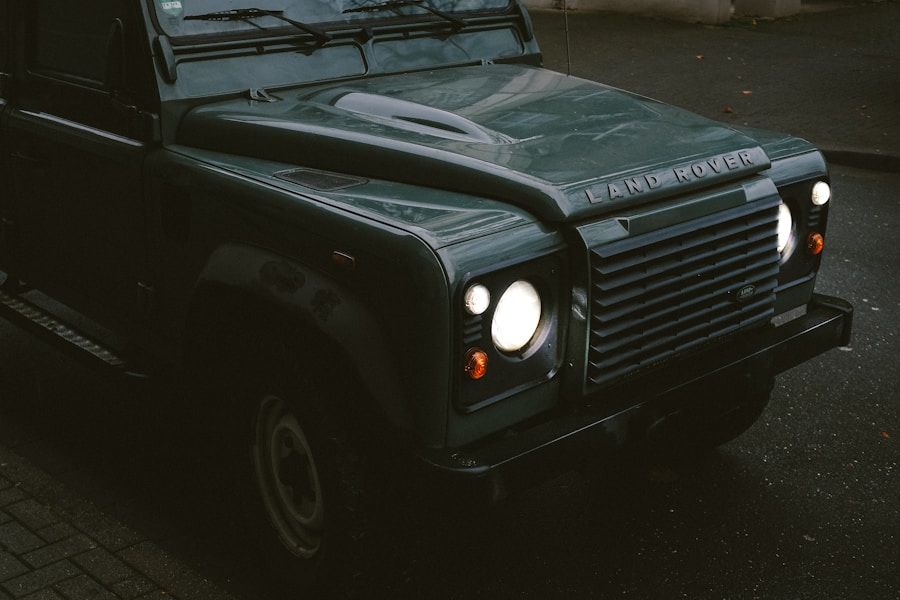
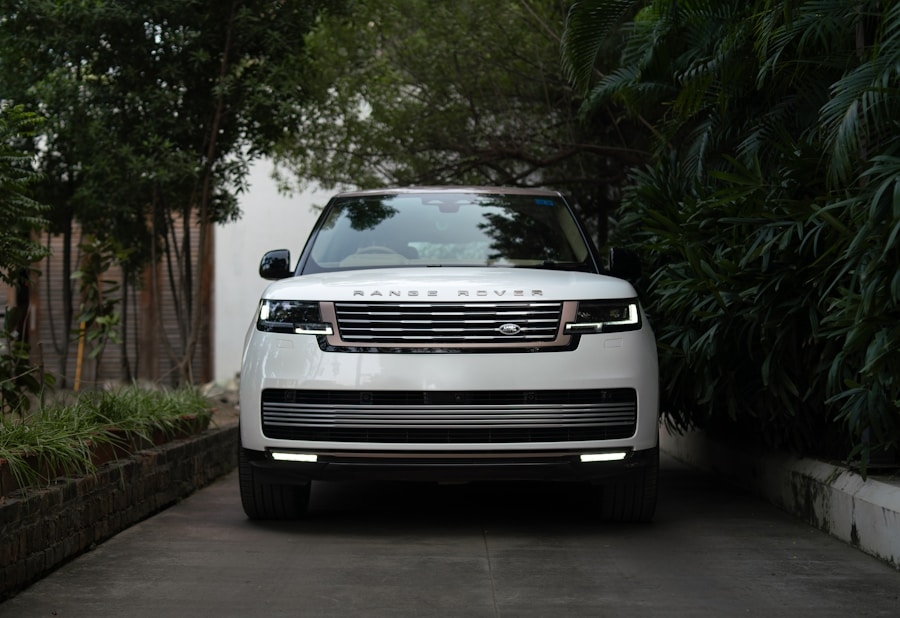
Fix guide hub cards, nav hover states, car images, and add editorial intro sections
- Fix invisible hub card text: white CSS override → dark var(--text-2/3) colors
- Fix guide-tab and gnl hover across 82 pages: dark-on-dark → white on #111 nav
- Replace Lamborghini pick card dark overlay with real lamborghini-aventador.jpg
- Replace Anti-Pick card dark overlay with real leased-amg-take.jpg
- Add Cars editorial intro section: outfit-board with 2x2 Porsche/BMW/Lexus/AMG collage
- Add Golf editorial intro section: outfit-board with Titleist/Bushnell/Vessel/Callaway collage
- Add Other editorial intro section: outfit-board with Anker/Beardbrand/Nomatic/YETI collage
- Commit updated car images: Range Rover (white L-series), Cadillac CT5-V (modern black)

diff --git a/guide/other/index.html b/guide/other/index.html
@@ -36,14 +36,14 @@
   .guide-word-guide{color:var(--accent);font-weight:800;}
   .guide-nav-links{display:flex;align-items:center;gap:4px;}
   .gnl{font-size:15px;font-weight:600;color:var(--text-2);text-decoration:none;padding:7px 12px;border-radius:8px;transition:color .15s,background .15s;}
-  .gnl:hover{color:var(--text);background:rgba(0,0,0,.04);text-decoration:none;}
+  .gnl:hover{color:#fff;background:rgba(255,255,255,.1);text-decoration:none;}
   .gnl-cta{background:var(--accent);color:#fff;padding:8px 18px;border-radius:9px;font-size:14px;font-weight:700;transition:background .15s,transform .15s;margin-left:8px;}
   .gnl-cta:hover{background:var(--accent-h);text-decoration:none;transform:translateY(-1px);}
   .guide-tabs{position:sticky;top:62px;z-index:90;background:#111;backdrop-filter:blur(12px);-webkit-backdrop-filter:blur(12px);border-bottom:1px solid rgba(255,255,255,0.08);}
   .guide-tabs-inner{max-width:1120px;margin:0 auto;padding:0 24px;display:flex;gap:0;overflow-x:auto;-webkit-overflow-scrolling:touch;scrollbar-width:none;}
   .guide-tabs-inner::-webkit-scrollbar{display:none;}
   .guide-tab{padding:13px 20px;font-family:'Inter Tight',sans-serif;font-weight:700;font-size:14px;letter-spacing:.01em;color:var(--text-2);text-decoration:none;border-bottom:2px solid transparent;margin-bottom:-1px;transition:color .15s ease,border-color .15s ease;white-space:nowrap;}
-  .guide-tab:hover{color:var(--text);text-decoration:none;}
+  .guide-tab:hover{color:#fff;text-decoration:none;}
   .guide-tab.active{color:var(--accent);border-bottom-color:var(--accent);}
   .cat-band{background:#0F1724;color:#fff;padding:48px 24px 44px;border-top:3px solid var(--accent);}
   .cat-band-inner{max-width:1120px;margin:0 auto;}
@@ -88,6 +88,32 @@
   .guide-footer-links a{color:rgba(255,255,255,.5);}
   .guide-footer-links a:hover{color:#fff;text-decoration:none;}
   .guide-footer-note{width:100%;font-size:11px;color:rgba(255,255,255,.28);line-height:1.6;padding-top:16px;border-top:1px solid rgba(255,255,255,.08);margin-top:16px;}
+  /* ── SECTION HEADERS ── */
+  .guide-section{padding:56px 0;}
+  .gsec-eyebrow{font-size:11px;font-weight:700;letter-spacing:.12em;text-transform:uppercase;color:var(--accent);margin-bottom:8px;}
+  .gsec-title{font-family:'Inter Tight',sans-serif;font-weight:800;font-size:clamp(22px,3.5vw,32px);letter-spacing:-.02em;margin-bottom:8px;color:var(--text);}
+  .gsec-sub{font-size:15px;color:var(--text-2);margin-bottom:36px;max-width:560px;line-height:1.6;}
+  /* ── OUTFIT BOARD ── */
+  .outfit-board{display:grid;grid-template-columns:320px 1fr;gap:0;background:var(--surface);border:1px solid var(--border);border-radius:16px;overflow:hidden;}
+  .outfit-img{background:var(--surface-2);min-height:380px;display:flex;align-items:center;justify-content:center;}
+  .outfit-img img{width:100%;height:380px;object-fit:cover;display:block;}
+  .outfit-collage{padding:0!important;overflow:hidden;}
+  .outfit-collage-grid{display:grid;grid-template-columns:1fr 1fr;grid-template-rows:1fr 1fr;gap:2px;height:100%;min-height:340px;}
+  .outfit-collage-grid img{width:100%;height:100%;object-fit:cover;display:block;background:var(--surface-2);}
+  .outfit-content{padding:32px 36px;display:flex;flex-direction:column;gap:0;}
+  .outfit-eyebrow{font-family:'Inter Tight',sans-serif;font-size:10px;font-weight:700;letter-spacing:.12em;text-transform:uppercase;color:var(--accent);margin-bottom:10px;}
+  .outfit-title{font-family:'Inter Tight',sans-serif;font-weight:900;font-size:22px;letter-spacing:-0.02em;color:var(--text);margin-bottom:4px;}
+  .outfit-subtitle{font-size:14px;color:var(--text-2);margin-bottom:16px;}
+  .outfit-writeup{font-size:15px;color:var(--text-2);line-height:1.68;margin-bottom:24px;}
+  .outfit-items{list-style:none;padding:0;margin:0 0 18px;border-top:1px solid var(--border);}
+  .outfit-item{display:flex;align-items:center;justify-content:space-between;padding:10px 0;border-bottom:1px solid rgba(0,0,0,.06);}
+  .outfit-item-info{flex:1;min-width:0;}
+  .outfit-item-name{font-weight:600;font-size:14px;color:var(--text);white-space:nowrap;overflow:hidden;text-overflow:ellipsis;}
+  .outfit-item-role{font-size:12px;color:var(--text-3);}
+  .outfit-item-shop{flex-shrink:0;margin-left:14px;font-size:12px;font-weight:600;color:var(--accent);white-space:nowrap;text-decoration:none;}
+  .outfit-item-shop:hover{text-decoration:underline;}
+  .outfit-flashy{font-family:'Inter Tight',sans-serif;font-size:14px;font-weight:700;color:var(--text);border-left:3px solid var(--accent);padding-left:12px;line-height:1.5;}
+  @media(max-width:700px){.outfit-board{grid-template-columns:1fr;}}
 </style>
 </head>
 <body>
@@ -121,6 +147,52 @@
     <div class="cat-band-crumb"><a href="/guide/">Guide</a><span class="cat-band-crumb-sep">›</span>Other</div>
     <h1 class="cat-band-title">Other</h1>
     <p class="cat-band-desc">Tech, grooming, travel, home. Everything that doesn't fit a category but still belongs in the arsenal of a guy who pays attention.</p>
+  </div>
+</div>
+
+<div class="guide-section" style="padding:48px 0 40px;">
+  <div class="gc">
+    <div class="gsec-eyebrow">The Essentials</div>
+    <div class="gsec-title">The Four Upgrades Every Guy Should Have</div>
+    <div class="gsec-sub">The stuff that quietly separates a guy who has his act together from one who doesn't.</div>
+    <div class="outfit-board">
+      <div class="outfit-img outfit-collage"><div class="outfit-collage-grid">
+        <img src="/assets/guide/other/anker-3in1-charger.jpg" alt="Anker 3-in-1 charger" loading="lazy">
+        <img src="/assets/guide/other/beardbrand-utility-bar.jpg" alt="Beardbrand grooming" loading="lazy">
+        <img src="/assets/guide/other/nomatic-40l-pack.jpg" alt="Nomatic backpack" loading="lazy">
+        <img src="/assets/guide/other/yeti-rambler-20oz.jpg" alt="YETI Rambler" loading="lazy">
+      </div></div>
+      <div class="outfit-content">
+        <div class="outfit-eyebrow">The Essentials</div>
+        <div class="outfit-title">The Four Upgrades Every Guy Should Have</div>
+        <div class="outfit-subtitle">The stuff that works so well you stop thinking about it.</div>
+        <p class="outfit-writeup">Some gear is invisible when done right and embarrassing when skipped. A three-in-one charging dock ends the cable pile on your nightstand and signals that you've thought about your space. A quality grooming bar — bar soap is back, and the cheap stuff is obvious. One great backpack you'd take to the airport and a client meeting without changing your bag. A YETI tumbler you'll still be using in ten years. None of this is flashy. All of it is the kind of detail that people who notice things will notice — and people who don't notice things won't subtract from you for.</p>
+        <ul class="outfit-items">
+          <li class="outfit-item">
+            <div class="outfit-item-info">
+              <div class="outfit-item-name">Anker 3-in-1 MagSafe Charging Dock</div>
+              <div class="outfit-item-role">Clean desk, all devices powered — done</div>
+            </div>
+            <a href="/guide/other/anker-3in1-charger/" class="outfit-item-shop">Our Take →</a>
+          </li>
+          <li class="outfit-item">
+            <div class="outfit-item-info">
+              <div class="outfit-item-name">Beardbrand Utility Bar</div>
+              <div class="outfit-item-role">The grooming upgrade that changes nothing and everything</div>
+            </div>
+            <a href="/guide/other/beardbrand-utility-bar/" class="outfit-item-shop">Our Take →</a>
+          </li>
+          <li class="outfit-item">
+            <div class="outfit-item-info">
+              <div class="outfit-item-name">Nomatic 40L Travel Pack</div>
+              <div class="outfit-item-role">One bag that goes everywhere without apology</div>
+            </div>
+            <a href="/guide/other/nomatic-40l-pack/" class="outfit-item-shop">Our Take →</a>
+          </li>
+        </ul>
+        <p class="outfit-flashy">The guys who have their act together don't have more stuff — they have fewer, better things they've stopped thinking about.</p>
+      </div>
+    </div>
   </div>
 </div>
 

diff --git a/guide/golf/index.html b/guide/golf/index.html
@@ -36,14 +36,14 @@
   .guide-word-guide{color:var(--accent);font-weight:800;}
   .guide-nav-links{display:flex;align-items:center;gap:4px;}
   .gnl{font-size:15px;font-weight:600;color:var(--text-2);text-decoration:none;padding:7px 12px;border-radius:8px;transition:color .15s,background .15s;}
-  .gnl:hover{color:var(--text);background:rgba(0,0,0,.04);text-decoration:none;}
+  .gnl:hover{color:#fff;background:rgba(255,255,255,.1);text-decoration:none;}
   .gnl-cta{background:var(--accent);color:#fff;padding:8px 18px;border-radius:9px;font-size:14px;font-weight:700;transition:background .15s,transform .15s;margin-left:8px;}
   .gnl-cta:hover{background:var(--accent-h);text-decoration:none;transform:translateY(-1px);}
   .guide-tabs{position:sticky;top:62px;z-index:90;background:#111;backdrop-filter:blur(12px);-webkit-backdrop-filter:blur(12px);border-bottom:1px solid rgba(255,255,255,0.08);}
   .guide-tabs-inner{max-width:1120px;margin:0 auto;padding:0 24px;display:flex;gap:0;overflow-x:auto;-webkit-overflow-scrolling:touch;scrollbar-width:none;}
   .guide-tabs-inner::-webkit-scrollbar{display:none;}
   .guide-tab{padding:13px 20px;font-family:'Inter Tight',sans-serif;font-weight:700;font-size:14px;letter-spacing:.01em;color:var(--text-2);text-decoration:none;border-bottom:2px solid transparent;margin-bottom:-1px;transition:color .15s ease,border-color .15s ease;white-space:nowrap;}
-  .guide-tab:hover{color:var(--text);text-decoration:none;}
+  .guide-tab:hover{color:#fff;text-decoration:none;}
   .guide-tab.active{color:var(--accent);border-bottom-color:var(--accent);}
   .cat-band{background:#0F1724;color:#fff;padding:48px 24px 44px;border-top:3px solid var(--accent);}
   .cat-band-inner{max-width:1120px;margin:0 auto;}
@@ -54,6 +54,10 @@
   .cat-band-title{font-family:'Inter Tight',sans-serif;font-weight:900;font-size:clamp(32px,5vw,52px);letter-spacing:-.03em;line-height:1.0;margin-bottom:12px;}
   .cat-band-desc{font-size:16px;color:rgba(255,255,255,.62);max-width:520px;line-height:1.6;}
   .gc{max-width:1120px;margin:0 auto;padding:0 24px;}
+  .guide-section{padding:56px 0;}
+  .gsec-eyebrow{font-size:11px;font-weight:700;letter-spacing:.12em;text-transform:uppercase;color:var(--accent);margin-bottom:8px;}
+  .gsec-title{font-family:'Inter Tight',sans-serif;font-weight:800;font-size:clamp(22px,3.5vw,32px);letter-spacing:-.02em;margin-bottom:8px;color:var(--text);}
+  .gsec-sub{font-size:15px;color:var(--text-2);margin-bottom:36px;max-width:560px;line-height:1.6;}
   .section-eyebrow{font-size:11px;font-weight:700;letter-spacing:.12em;text-transform:uppercase;color:var(--accent);margin-bottom:8px;}
   .section-title{font-family:'Inter Tight',sans-serif;font-weight:800;font-size:clamp(22px,3.5vw,32px);letter-spacing:-.02em;margin-bottom:8px;color:var(--text);}
   .section-desc{font-size:15px;color:var(--text-2);margin-bottom:36px;max-width:560px;line-height:1.6;}
@@ -113,6 +117,27 @@
   .guide-footer-links a{color:rgba(255,255,255,.5);}
   .guide-footer-links a:hover{color:#fff;text-decoration:none;}
   .guide-footer-note{width:100%;font-size:11px;color:rgba(255,255,255,.28);line-height:1.6;padding-top:16px;border-top:1px solid rgba(255,255,255,.08);margin-top:16px;}
+  /* ── OUTFIT BOARD ── */
+  .outfit-board{display:grid;grid-template-columns:320px 1fr;gap:0;background:var(--surface);border:1px solid var(--border);border-radius:16px;overflow:hidden;}
+  .outfit-img{background:var(--surface-2);min-height:380px;display:flex;align-items:center;justify-content:center;}
+  .outfit-img img{width:100%;height:380px;object-fit:cover;display:block;}
+  .outfit-collage{padding:0!important;overflow:hidden;}
+  .outfit-collage-grid{display:grid;grid-template-columns:1fr 1fr;grid-template-rows:1fr 1fr;gap:2px;height:100%;min-height:340px;}
+  .outfit-collage-grid img{width:100%;height:100%;object-fit:cover;display:block;background:var(--surface-2);}
+  .outfit-content{padding:32px 36px;display:flex;flex-direction:column;gap:0;}
+  .outfit-eyebrow{font-family:'Inter Tight',sans-serif;font-size:10px;font-weight:700;letter-spacing:.12em;text-transform:uppercase;color:var(--accent);margin-bottom:10px;}
+  .outfit-title{font-family:'Inter Tight',sans-serif;font-weight:900;font-size:22px;letter-spacing:-0.02em;color:var(--text);margin-bottom:4px;}
+  .outfit-subtitle{font-size:14px;color:var(--text-2);margin-bottom:16px;}
+  .outfit-writeup{font-size:15px;color:var(--text-2);line-height:1.68;margin-bottom:24px;}
+  .outfit-items{list-style:none;padding:0;margin:0 0 18px;border-top:1px solid var(--border);}
+  .outfit-item{display:flex;align-items:center;justify-content:space-between;padding:10px 0;border-bottom:1px solid rgba(0,0,0,.06);}
+  .outfit-item-info{flex:1;min-width:0;}
+  .outfit-item-name{font-weight:600;font-size:14px;color:var(--text);white-space:nowrap;overflow:hidden;text-overflow:ellipsis;}
+  .outfit-item-role{font-size:12px;color:var(--text-3);}
+  .outfit-item-shop{flex-shrink:0;margin-left:14px;font-size:12px;font-weight:600;color:var(--accent);white-space:nowrap;text-decoration:none;}
+  .outfit-item-shop:hover{text-decoration:underline;}
+  .outfit-flashy{font-family:'Inter Tight',sans-serif;font-size:14px;font-weight:700;color:var(--text);border-left:3px solid var(--accent);padding-left:12px;line-height:1.5;}
+  @media(max-width:700px){.outfit-board{grid-template-columns:1fr;}}
 </style>
 </head>
 <body>
@@ -146,6 +171,52 @@
     <div class="cat-band-crumb"><a href="/guide/">Guide</a><span class="cat-band-crumb-sep">›</span>Golf</div>
     <h1 class="cat-band-title">Golf</h1>
     <p class="cat-band-desc">The equipment that makes you look like you've been doing this your whole life — and the apps that back up the bluster.</p>
+  </div>
+</div>
+
+<div class="guide-section" style="padding:48px 0 40px;">
+  <div class="gc">
+    <div class="gsec-eyebrow">The Starter Kit</div>
+    <div class="gsec-title">The Four Things That Actually Matter</div>
+    <div class="gsec-sub">Show up with these and you look like you know what you're doing.</div>
+    <div class="outfit-board">
+      <div class="outfit-img outfit-collage"><div class="outfit-collage-grid">
+        <img src="/assets/guide/golf/titleist-pro-v1.jpg" alt="Titleist Pro V1" loading="lazy">
+        <img src="/assets/guide/golf/bushnell-pro-x3.jpg" alt="Bushnell rangefinder" loading="lazy">
+        <img src="/assets/guide/golf/vessel-player-iv.jpg" alt="Vessel stand bag" loading="lazy">
+        <img src="/assets/guide/golf/callaway-paradym-driver.jpg" alt="Callaway driver" loading="lazy">
+      </div></div>
+      <div class="outfit-content">
+        <div class="outfit-eyebrow">The Starter Kit</div>
+        <div class="outfit-title">The Four Things That Actually Matter</div>
+        <div class="outfit-subtitle">Ball. Rangefinder. Bag. Driver. Everything else is noise until you have these.</div>
+        <p class="outfit-writeup">Golf has a gear problem — every brand convinces you that you need the latest driver, five wedges, and a $600 bag before you can show up. You don't. What separates a guy who looks like he plays from a guy who clearly doesn't is simpler: a quality ball that matches your swing speed, a rangefinder so you stop guessing yardages, a clean stand bag that isn't falling apart, and one driver you've actually hit more than twice. The Pro V1 is the standard because it is the standard. The Bushnell Pro X3 gives you yardages in two seconds and never embarrasses you on the course. Vessel bags look like they belong at a member's club. Get these right first — then obsess over irons.</p>
+        <ul class="outfit-items">
+          <li class="outfit-item">
+            <div class="outfit-item-info">
+              <div class="outfit-item-name">Titleist Pro V1</div>
+              <div class="outfit-item-role">The ball everyone plays for a reason</div>
+            </div>
+            <a href="/guide/golf/titleist-pro-v1/" class="outfit-item-shop">Our Take →</a>
+          </li>
+          <li class="outfit-item">
+            <div class="outfit-item-info">
+              <div class="outfit-item-name">Bushnell Pro X3 Rangefinder</div>
+              <div class="outfit-item-role">Accurate yardages, zero excuses</div>
+            </div>
+            <a href="/guide/golf/bushnell-pro-x3/" class="outfit-item-shop">Our Take →</a>
+          </li>
+          <li class="outfit-item">
+            <div class="outfit-item-info">
+              <div class="outfit-item-name">Vessel Player IV Stand Bag</div>
+              <div class="outfit-item-role">The bag that looks like you belong there</div>
+            </div>
+            <a href="/guide/golf/vessel-player-iv/" class="outfit-item-shop">Our Take →</a>
+          </li>
+        </ul>
+        <p class="outfit-flashy">The tell on the course isn't your handicap — it's whether your setup looks intentional. Get the basics right and everything else is details.</p>
+      </div>
+    </div>
   </div>
 </div>
 

diff --git a/guide/cars/index.html b/guide/cars/index.html
@@ -273,7 +273,7 @@
   .guide-tabs{position:sticky;top:57px;z-index:90;background:#111;backdrop-filter:blur(12px);-webkit-backdrop-filter:blur(12px);border-bottom:1px solid rgba(255,255,255,0.08);}
   .guide-tabs-inner{max-width:1120px;margin:0 auto;padding:0 24px;display:flex;gap:0;overflow-x:auto;-webkit-overflow-scrolling:touch;}
   .guide-tab{padding:13px 20px;font-family:'Inter Tight',sans-serif;font-weight:700;font-size:14px;letter-spacing:.01em;color:var(--text-2);text-decoration:none;border-bottom:2px solid transparent;margin-bottom:-1px;transition:color .15s ease,border-color .15s ease;white-space:nowrap;}
-  .guide-tab:hover{color:var(--text);text-decoration:none;}
+  .guide-tab:hover{color:#fff;text-decoration:none;}
   .guide-tab.active{color:var(--accent);border-bottom-color:var(--accent);}
   }
   .outfit-collage { padding: 0 !important; overflow: hidden; }
@@ -322,6 +322,52 @@
   </div>
 </div>
 
+
+<div class="guide-section">
+  <div class="gc">
+    <div class="gsec-eyebrow">The Take</div>
+    <div class="gsec-title">What Your Car Actually Signals</div>
+    <div class="gsec-sub">The read every guy should know before he buys.</div>
+    <div class="outfit-board">
+      <div class="outfit-img outfit-collage"><div class="outfit-collage-grid">
+        <img src="/assets/guide/cars/used-porsche-911.jpg" alt="Porsche 911" loading="lazy">
+        <img src="/assets/guide/cars/bmw-x5.jpg" alt="BMW X5" loading="lazy">
+        <img src="/assets/guide/cars/lexus-stealth-luxury.jpg" alt="Lexus LS" loading="lazy">
+        <img src="/assets/guide/cars/mercedes-amg-c43.jpg" alt="Mercedes-AMG" loading="lazy">
+      </div></div>
+      <div class="outfit-content">
+        <div class="outfit-eyebrow">The Take</div>
+        <div class="outfit-title">What Your Car Actually Signals</div>
+        <div class="outfit-subtitle">Cars broadcast louder than you think — make sure it's saying what you want.</div>
+        <p class="outfit-writeup">A car is one of the loudest signals you send before you say a word. A clean Porsche 911 — especially a used one you bought outright — says you know what you're doing. A Lexus LS says old money and zero need to be noticed. A BMW X5 is the baseline of suburban-professional; fine, but invisible. An AMG with a modified exhaust and a lease says something else entirely. The guys who understand cars see through the noise instantly. The move is to buy something that rewards knowledge — not something designed to impress people who don't know the difference.</p>
+        <ul class="outfit-items">
+          <li class="outfit-item">
+            <div class="outfit-item-info">
+              <div class="outfit-item-name">Porsche 911</div>
+              <div class="outfit-item-role">The car that signals you actually know cars</div>
+            </div>
+            <a href="/guide/cars/used-porsche-911/" class="outfit-item-shop">Our Take →</a>
+          </li>
+          <li class="outfit-item">
+            <div class="outfit-item-info">
+              <div class="outfit-item-name">Lexus LS / LC</div>
+              <div class="outfit-item-role">Stealth luxury — underrated by design</div>
+            </div>
+            <a href="/guide/cars/lexus-stealth-luxury/" class="outfit-item-shop">Our Take →</a>
+          </li>
+          <li class="outfit-item">
+            <div class="outfit-item-info">
+              <div class="outfit-item-name">BMW X5 / X7</div>
+              <div class="outfit-item-role">The professional default — works, but predictable</div>
+            </div>
+            <a href="/guide/cars/bmw-x5-x7/" class="outfit-item-shop">Our Take →</a>
+          </li>
+        </ul>
+        <p class="outfit-flashy">The flex in cars is buying something that rewards knowledge — a car enthusiasts respect over a car designed to impress people who can't tell the difference.</p>
+      </div>
+    </div>
+  </div>
+</div>
 
 <div class="guide-section">
   <div class="gc">
@@ -500,7 +546,8 @@
 
 <div class="pick-card">
   <div class="pick-card-img">
-    <div class="pick-card-img-gt"><div class="pci-gt-inner"><div class="pci-gt-eyebrow">GuyTalk Guide</div><div class="pci-gt-brand">Lamborghini</div><div class="pci-gt-name">The Loud Exotic</div></div></div>
+    <img src="/assets/guide/cars/lamborghini-aventador.jpg" alt="Lamborghini Aventador" loading="lazy"
+         onerror="this.onerror=null;this.parentElement.innerHTML='<div class=\'pick-card-img-gt\'><div class=\'pci-gt-inner\'><div class=\'pci-gt-eyebrow\'>GuyTalk Guide</div><div class=\'pci-gt-brand\'>Lamborghini</div><div class=\'pci-gt-name\'>The Loud Exotic</div></div></div>'">
   </div>
   <div class="pick-card-body">
     <div class="pick-card-tag"><span class="gtag gtag-amber">Know What It Says</span></div>
@@ -514,7 +561,8 @@
 
 <div class="pick-card">
   <div class="pick-card-img">
-    <div class="pick-card-img-gt"><div class="pci-gt-inner"><div class="pci-gt-eyebrow">GuyTalk Guide</div><div class="pci-gt-brand">The Anti-Pick</div><div class="pci-gt-name">Skip the Lease Energy</div></div></div>
+    <img src="/assets/guide/cars/leased-amg-take.jpg" alt="Leased luxury car" loading="lazy" style="object-position: center center;"
+         onerror="this.onerror=null;this.parentElement.innerHTML='<div class=\'pick-card-img-gt\'><div class=\'pci-gt-inner\'><div class=\'pci-gt-eyebrow\'>GuyTalk Guide</div><div class=\'pci-gt-brand\'>The Anti-Pick</div><div class=\'pci-gt-name\'>Skip the Lease Energy</div></div></div>'">
   </div>
   <div class="pick-card-body">
     <div class="pick-card-tag"><span class="gtag gtag-gray">The Anti-Pick</span></div>

diff --git a/guide/index.html b/guide/index.html
@@ -65,8 +65,8 @@
   .guide-word-guide { color: var(--accent); font-weight: 800; }
   .guide-nav-links { display: flex; align-items: center; gap: 4px; }
   .gnl { font-size: 15px; font-weight: 600; color: var(--text-2); text-decoration: none; padding: 7px 12px; border-radius: 8px; transition: color 0.15s, background 0.15s; }
-  .gnl:hover { color: var(--text); background: rgba(0,0,0,0.04); text-decoration: none; }
-  .gnl.is-active { color: var(--text); }
+  .gnl:hover { color: #fff; background: rgba(255,255,255,0.1); text-decoration: none; }
+  .gnl.is-active { color: #fff; }
   .gnl-cta {
     font-size: 14px; font-weight: 700; padding: 8px 18px;
     background: var(--accent); color: #fff; border-radius: 9px; text-decoration: none;
@@ -426,7 +426,7 @@
   .guide-tabs-inner{max-width:1120px;margin:0 auto;padding:0 24px;display:flex;gap:0;overflow-x:auto;-webkit-overflow-scrolling:touch;scrollbar-width:none;}
   .guide-tabs-inner::-webkit-scrollbar{display:none;}
   .guide-tab{padding:13px 20px;font-family:'Inter Tight',sans-serif;font-weight:700;font-size:14px;letter-spacing:.01em;color:var(--text-2);text-decoration:none;border-bottom:2px solid transparent;margin-bottom:-1px;transition:color .15s ease,border-color .15s ease;white-space:nowrap;}
-  .guide-tab:hover{color:var(--text);text-decoration:none;}
+  .guide-tab:hover{color:#fff;text-decoration:none;}
   .guide-tab.active{color:var(--accent);border-bottom-color:var(--accent);}
   }
   /* Hub new categories grid */
@@ -481,8 +481,8 @@
   .hub-cat-desc { font-size: 14px; color: var(--text-2); line-height: 1.55; margin-bottom: 0; }
 
 
-  .hub-cat-desc { font-size: 14px; color: rgba(255,255,255,.55); line-height: 1.55; margin-bottom: 16px; }
-  .hub-cat-pick { font-size: 12px; color: rgba(255,255,255,.3); font-style: italic; margin-bottom: 20px; padding-top: 12px; border-top: 1px solid rgba(255,255,255,.08); }
+  .hub-cat-desc { font-size: 14px; color: var(--text-2); line-height: 1.55; margin-bottom: 12px; }
+  .hub-cat-pick { font-size: 12px; color: var(--text-3); font-style: italic; margin-bottom: 16px; padding-top: 10px; border-top: 1px solid var(--border); }
   .hub-cat-cta { font-size: 13px; font-weight: 700; color: var(--accent); }
 
 </style>

diff --git a/guide/accessories/allen-edmonds-belt/index.html b/guide/accessories/allen-edmonds-belt/index.html
@@ -27,7 +27,7 @@
   .guide-tabs{position:sticky;top:57px;z-index:90;background:#111;backdrop-filter:blur(12px);border-bottom:1px solid rgba(255,255,255,0.08);}
   .guide-tabs-inner{max-width:1120px;margin:0 auto;padding:0 24px;display:flex;overflow-x:auto;}
   .guide-tab{padding:12px 18px;font-family:'Inter Tight',sans-serif;font-weight:700;font-size:13px;color:var(--text-2);text-decoration:none;border-bottom:2px solid transparent;margin-bottom:-1px;white-space:nowrap;}
-  .guide-tab:hover{color:var(--text);text-decoration:none;}
+  .guide-tab:hover{color:#fff;text-decoration:none;}
   .guide-tab.active{color:var(--accent);border-bottom-color:var(--accent);}
   /* BREADCRUMB */
   .detail-breadcrumb{padding:16px 0 12px;font-size:12px;font-weight:600;letter-spacing:.06em;text-transform:uppercase;color:var(--text-3);}

diff --git a/guide/accessories/bellroy-dopp-kit/index.html b/guide/accessories/bellroy-dopp-kit/index.html
@@ -42,7 +42,7 @@
   .guide-tabs{position:sticky;top:57px;z-index:90;background:#111;backdrop-filter:blur(12px);-webkit-backdrop-filter:blur(12px);border-bottom:1px solid rgba(255,255,255,0.08);}
   .guide-tabs-inner{max-width:1120px;margin:0 auto;padding:0 24px;display:flex;gap:0;overflow-x:auto;-webkit-overflow-scrolling:touch;}
   .guide-tab{padding:12px 18px;font-family:'Inter Tight',sans-serif;font-weight:700;font-size:13px;letter-spacing:.01em;color:var(--text-2);text-decoration:none;border-bottom:2px solid transparent;margin-bottom:-1px;transition:color .15s ease,border-color .15s ease;white-space:nowrap;}
-  .guide-tab:hover{color:var(--text);text-decoration:none;}
+  .guide-tab:hover{color:#fff;text-decoration:none;}
   .guide-tab.active{color:var(--accent);border-bottom-color:var(--accent);}
   .detail-hero{background:#1A1A1A;color:#fff;padding:48px 24px 40px;}
   .detail-hero-inner{max-width:1120px;margin:0 auto;display:grid;grid-template-columns:1fr 340px;gap:48px;align-items:center;}

diff --git a/guide/accessories/bellroy-slim-sleeve/index.html b/guide/accessories/bellroy-slim-sleeve/index.html
@@ -27,7 +27,7 @@
   .guide-tabs{position:sticky;top:57px;z-index:90;background:#111;backdrop-filter:blur(12px);border-bottom:1px solid rgba(255,255,255,0.08);}
   .guide-tabs-inner{max-width:1120px;margin:0 auto;padding:0 24px;display:flex;overflow-x:auto;}
   .guide-tab{padding:12px 18px;font-family:'Inter Tight',sans-serif;font-weight:700;font-size:13px;color:var(--text-2);text-decoration:none;border-bottom:2px solid transparent;margin-bottom:-1px;white-space:nowrap;}
-  .guide-tab:hover{color:var(--text);text-decoration:none;}
+  .guide-tab:hover{color:#fff;text-decoration:none;}
   .guide-tab.active{color:var(--accent);border-bottom-color:var(--accent);}
   /* BREADCRUMB */
   .detail-breadcrumb{padding:16px 0 12px;font-size:12px;font-weight:600;letter-spacing:.06em;text-transform:uppercase;color:var(--text-3);}

diff --git a/guide/accessories/bellroy-slim-wallet/index.html b/guide/accessories/bellroy-slim-wallet/index.html
@@ -43,7 +43,7 @@
   .guide-tabs{position:sticky;top:57px;z-index:90;background:#111;backdrop-filter:blur(12px);-webkit-backdrop-filter:blur(12px);border-bottom:1px solid rgba(255,255,255,0.08);}
   .guide-tabs-inner{max-width:1120px;margin:0 auto;padding:0 24px;display:flex;gap:0;overflow-x:auto;-webkit-overflow-scrolling:touch;}
   .guide-tab{padding:12px 18px;font-family:'Inter Tight',sans-serif;font-weight:700;font-size:13px;letter-spacing:.01em;color:var(--text-2);text-decoration:none;border-bottom:2px solid transparent;margin-bottom:-1px;transition:color .15s ease,border-color .15s ease;white-space:nowrap;}
-  .guide-tab:hover{color:var(--text);text-decoration:none;}
+  .guide-tab:hover{color:#fff;text-decoration:none;}
   .guide-tab.active{color:var(--accent);border-bottom-color:var(--accent);}
   /* HERO */
   .detail-hero{background:#1A1A1A;color:#fff;padding:48px 24px 40px;}

diff --git a/guide/accessories/filson-small-duffel/index.html b/guide/accessories/filson-small-duffel/index.html
@@ -43,7 +43,7 @@
   .guide-tabs{position:sticky;top:57px;z-index:90;background:#111;backdrop-filter:blur(12px);-webkit-backdrop-filter:blur(12px);border-bottom:1px solid rgba(255,255,255,0.08);}
   .guide-tabs-inner{max-width:1120px;margin:0 auto;padding:0 24px;display:flex;gap:0;overflow-x:auto;-webkit-overflow-scrolling:touch;}
   .guide-tab{padding:12px 18px;font-family:'Inter Tight',sans-serif;font-weight:700;font-size:13px;letter-spacing:.01em;color:var(--text-2);text-decoration:none;border-bottom:2px solid transparent;margin-bottom:-1px;transition:color .15s ease,border-color .15s ease;white-space:nowrap;}
-  .guide-tab:hover{color:var(--text);text-decoration:none;}
+  .guide-tab:hover{color:#fff;text-decoration:none;}
   .guide-tab.active{color:var(--accent);border-bottom-color:var(--accent);}
   /* HERO */
   .detail-hero{background:#1A1A1A;color:#fff;padding:48px 24px 40px;}

diff --git a/guide/accessories/index.html b/guide/accessories/index.html
@@ -42,7 +42,7 @@
   .guide-tabs{position:sticky;top:57px;z-index:90;background:#111;backdrop-filter:blur(12px);-webkit-backdrop-filter:blur(12px);border-bottom:1px solid rgba(255,255,255,0.08);}
   .guide-tabs-inner{max-width:1120px;margin:0 auto;padding:0 24px;display:flex;gap:0;overflow-x:auto;-webkit-overflow-scrolling:touch;}
   .guide-tab{padding:13px 20px;font-family:'Inter Tight',sans-serif;font-weight:700;font-size:14px;letter-spacing:.01em;color:var(--text-2);text-decoration:none;border-bottom:2px solid transparent;margin-bottom:-1px;transition:color .15s ease,border-color .15s ease;white-space:nowrap;}
-  .guide-tab:hover{color:var(--text);text-decoration:none;}
+  .guide-tab:hover{color:#fff;text-decoration:none;}
   .guide-tab.active{color:var(--accent);border-bottom-color:var(--accent);}
   /* ── CAT BAND ── */
   .cat-band{background:#1A1A1A;color:#fff;padding:48px 24px 40px;}

diff --git a/guide/accessories/korchmar-leather-weekender/index.html b/guide/accessories/korchmar-leather-weekender/index.html
@@ -43,7 +43,7 @@
   .guide-tabs{position:sticky;top:57px;z-index:90;background:#111;backdrop-filter:blur(12px);-webkit-backdrop-filter:blur(12px);border-bottom:1px solid rgba(255,255,255,0.08);}
   .guide-tabs-inner{max-width:1120px;margin:0 auto;padding:0 24px;display:flex;gap:0;overflow-x:auto;-webkit-overflow-scrolling:touch;}
   .guide-tab{padding:12px 18px;font-family:'Inter Tight',sans-serif;font-weight:700;font-size:13px;letter-spacing:.01em;color:var(--text-2);text-decoration:none;border-bottom:2px solid transparent;margin-bottom:-1px;transition:color .15s ease,border-color .15s ease;white-space:nowrap;}
-  .guide-tab:hover{color:var(--text);text-decoration:none;}
+  .guide-tab:hover{color:#fff;text-decoration:none;}
   .guide-tab.active{color:var(--accent);border-bottom-color:var(--accent);}
   /* HERO */
   .detail-hero{background:#1A1A1A;color:#fff;padding:48px 24px 40px;}

diff --git a/guide/accessories/logo-shades-take/index.html b/guide/accessories/logo-shades-take/index.html
@@ -42,7 +42,7 @@
   .guide-tabs{position:sticky;top:57px;z-index:90;background:#111;backdrop-filter:blur(12px);-webkit-backdrop-filter:blur(12px);border-bottom:1px solid rgba(255,255,255,0.08);}
   .guide-tabs-inner{max-width:1120px;margin:0 auto;padding:0 24px;display:flex;gap:0;overflow-x:auto;-webkit-overflow-scrolling:touch;}
   .guide-tab{padding:12px 18px;font-family:'Inter Tight',sans-serif;font-weight:700;font-size:13px;letter-spacing:.01em;color:var(--text-2);text-decoration:none;border-bottom:2px solid transparent;margin-bottom:-1px;transition:color .15s ease,border-color .15s ease;white-space:nowrap;}
-  .guide-tab:hover{color:var(--text);text-decoration:none;}
+  .guide-tab:hover{color:#fff;text-decoration:none;}
   .guide-tab.active{color:var(--accent);border-bottom-color:var(--accent);}
   .detail-hero{background:#1A1A1A;color:#fff;padding:48px 24px 40px;}
   .detail-hero-inner{max-width:1120px;margin:0 auto;display:grid;grid-template-columns:1fr 340px;gap:48px;align-items:center;}